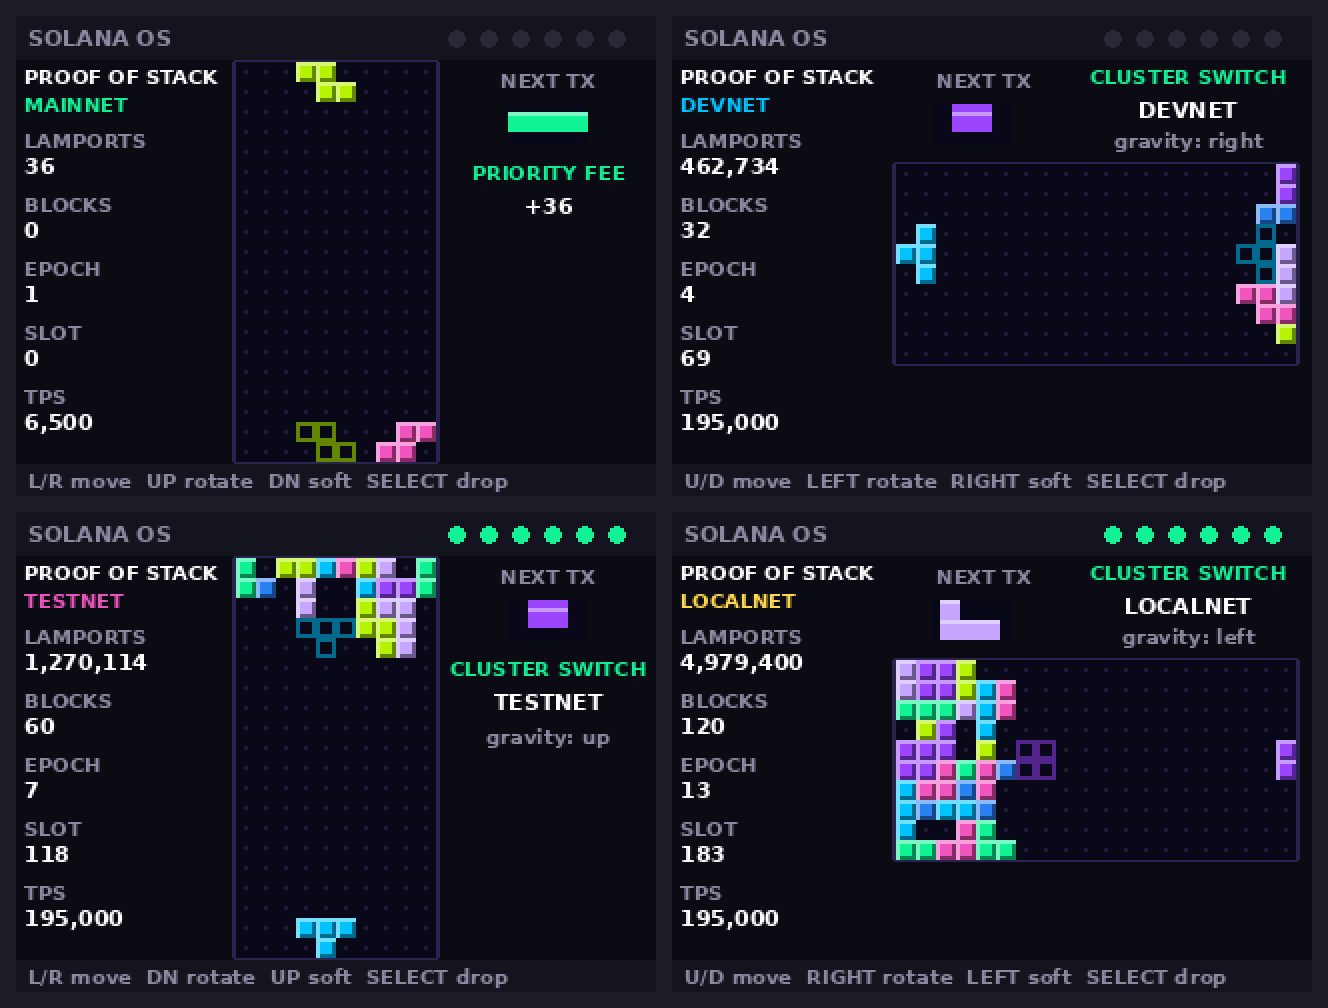
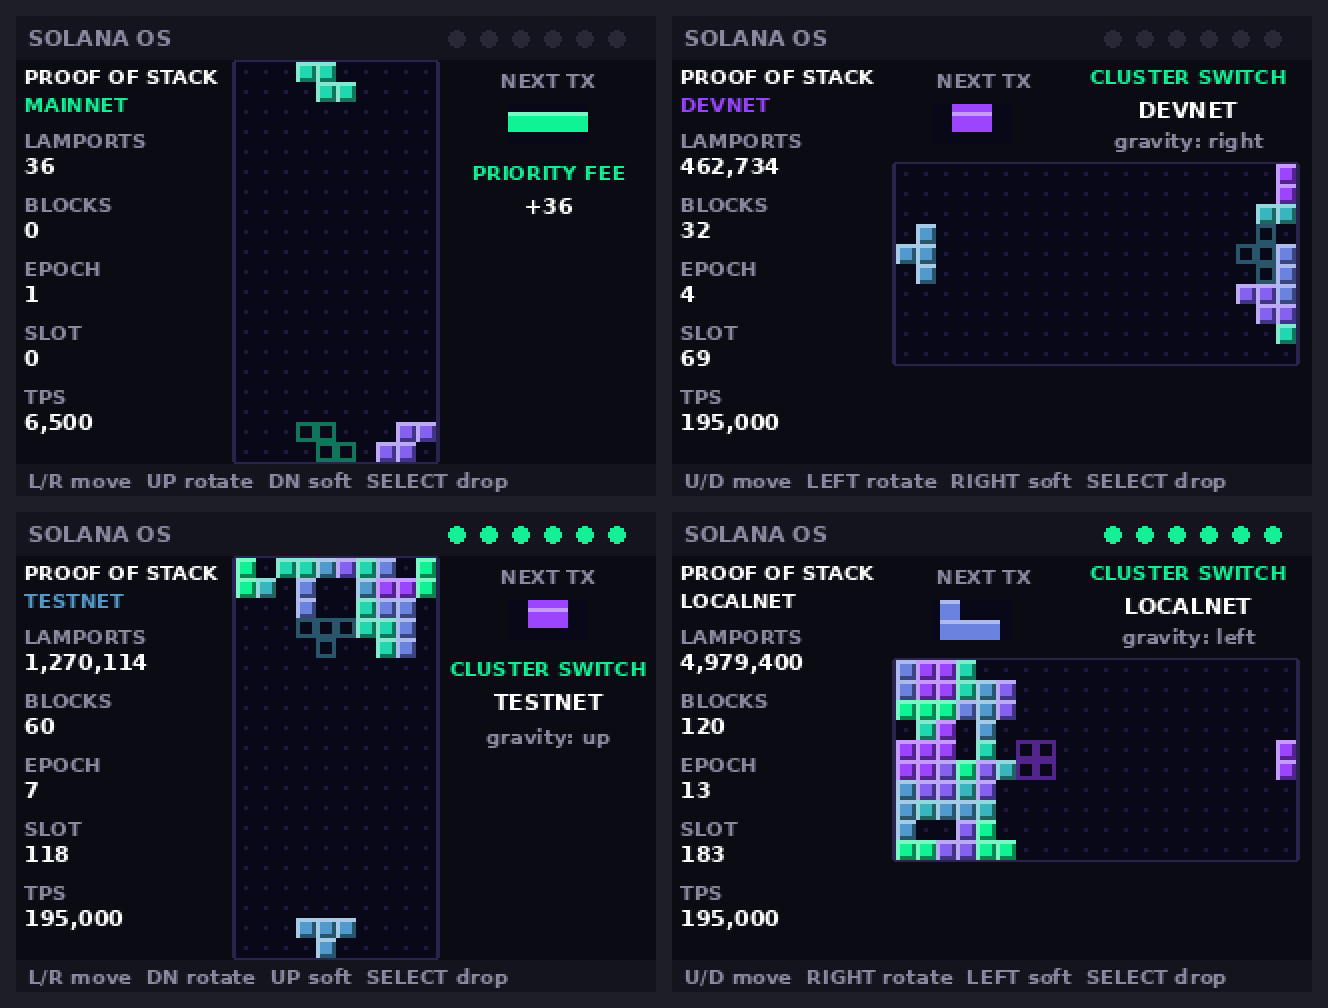
Proof of Stack: colours from the Solana brand
The seven shapes are now seven even steps of the Solana gradient, from
Solana Purple #9945FF to Solana Green #14F195 (the brand's two colours, as
confirmed on solana.com's branding pages), replacing the badge theme's
pink, lime, yellow and orange. Cluster names, the spam warning, the other
player's stack and the LED flashes use the same colours. Screenshots
regenerated.

Claude-Session: https://claude.ai/code/session_01EmXm2cfhMPsqRDkies4guq

diff --git a/tools/test_proof_of_stack.py b/tools/test_proof_of_stack.py
@@ -25,11 +25,11 @@ BUDGET = 200_000
 SHAPES = [
     ([(0, 1), (1, 1), (2, 1), (3, 1)], 4, 0x14F195, False),
     ([(1, 0), (2, 0), (1, 1), (2, 1)], 4, 0x9945FF, True),
-    ([(1, 0), (0, 1), (1, 1), (2, 1)], 3, 0x00C2FF, False),
-    ([(1, 0), (2, 0), (0, 1), (1, 1)], 3, 0xEB54BC, False),
-    ([(0, 0), (1, 0), (1, 1), (2, 1)], 3, 0xB4F000, False),
-    ([(0, 0), (0, 1), (1, 1), (2, 1)], 3, 0xC4A4FF, False),
-    ([(2, 0), (0, 1), (1, 1), (2, 1)], 3, 0x2F80ED, False),
+    ([(1, 0), (0, 1), (1, 1), (2, 1)], 3, 0x549BCA, False),
+    ([(1, 0), (2, 0), (0, 1), (1, 1)], 3, 0x8263EE, False),
+    ([(0, 0), (1, 0), (1, 1), (2, 1)], 3, 0x26D4A8, False),
+    ([(0, 0), (0, 1), (1, 1), (2, 1)], 3, 0x6B82DD, False),
+    ([(2, 0), (0, 1), (1, 1), (2, 1)], 3, 0x3DB6B9, False),
 ]
 ROT = []
 for cells, n, _, fixed in SHAPES:

diff --git a/README.md b/README.md
@@ -217,6 +217,11 @@ An original falling-block puzzle with Solana and blockchain jokes throughout
 - Each finalized block flashes one of the eight ideas Solana was built on:
   Proof of History, Tower BFT, Turbine, Gulf Stream, Sealevel, Pipelining,
   Cloudbreak and Archivers.
+- **Solana colours:** the seven transaction shapes are seven even steps of the
+  official Solana gradient, from Solana Purple `#9945FF` to Solana Green
+  `#14F195` (the two brand colours), on a near-black background. Spam rows
+  are neutral grey, and the cluster names use the same colours (Mainnet
+  green, Devnet purple, Testnet the blue midpoint, Localnet white).
 - A hard drop is a **priority fee**: 2 extra lamports per row it falls.
 - The game ends when the **blockspace is full**.
 - **Modes:**
